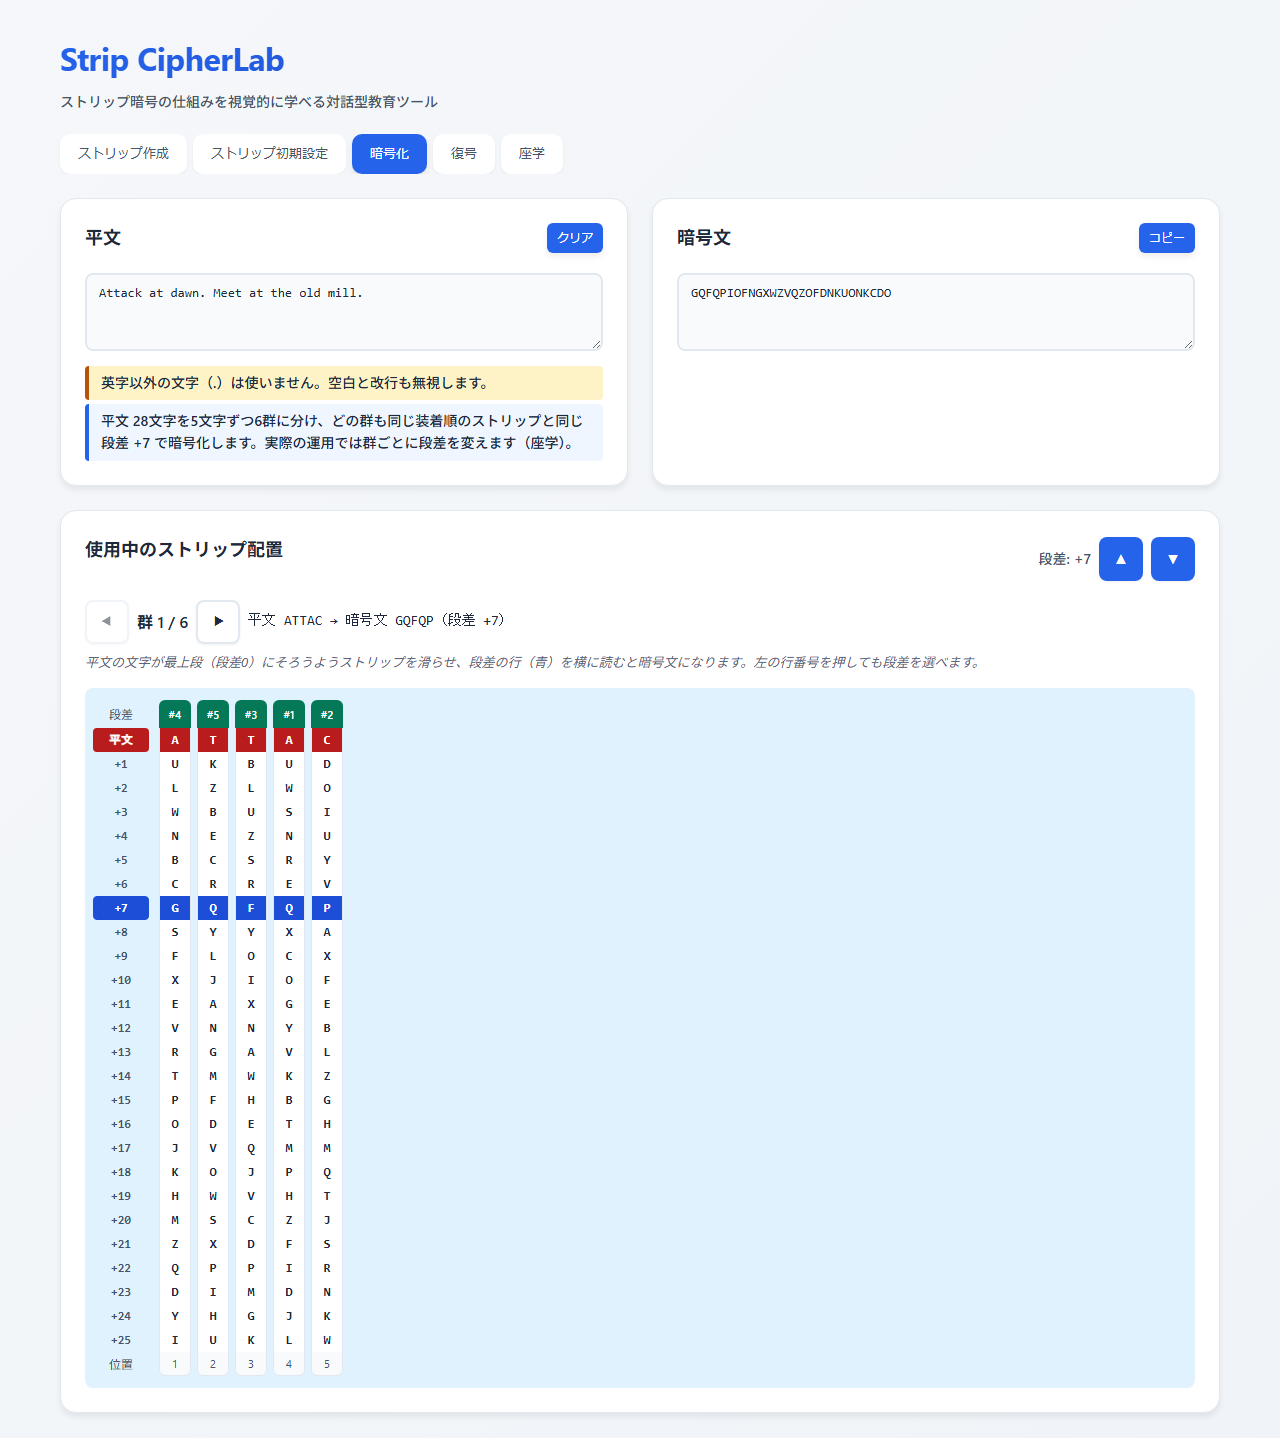
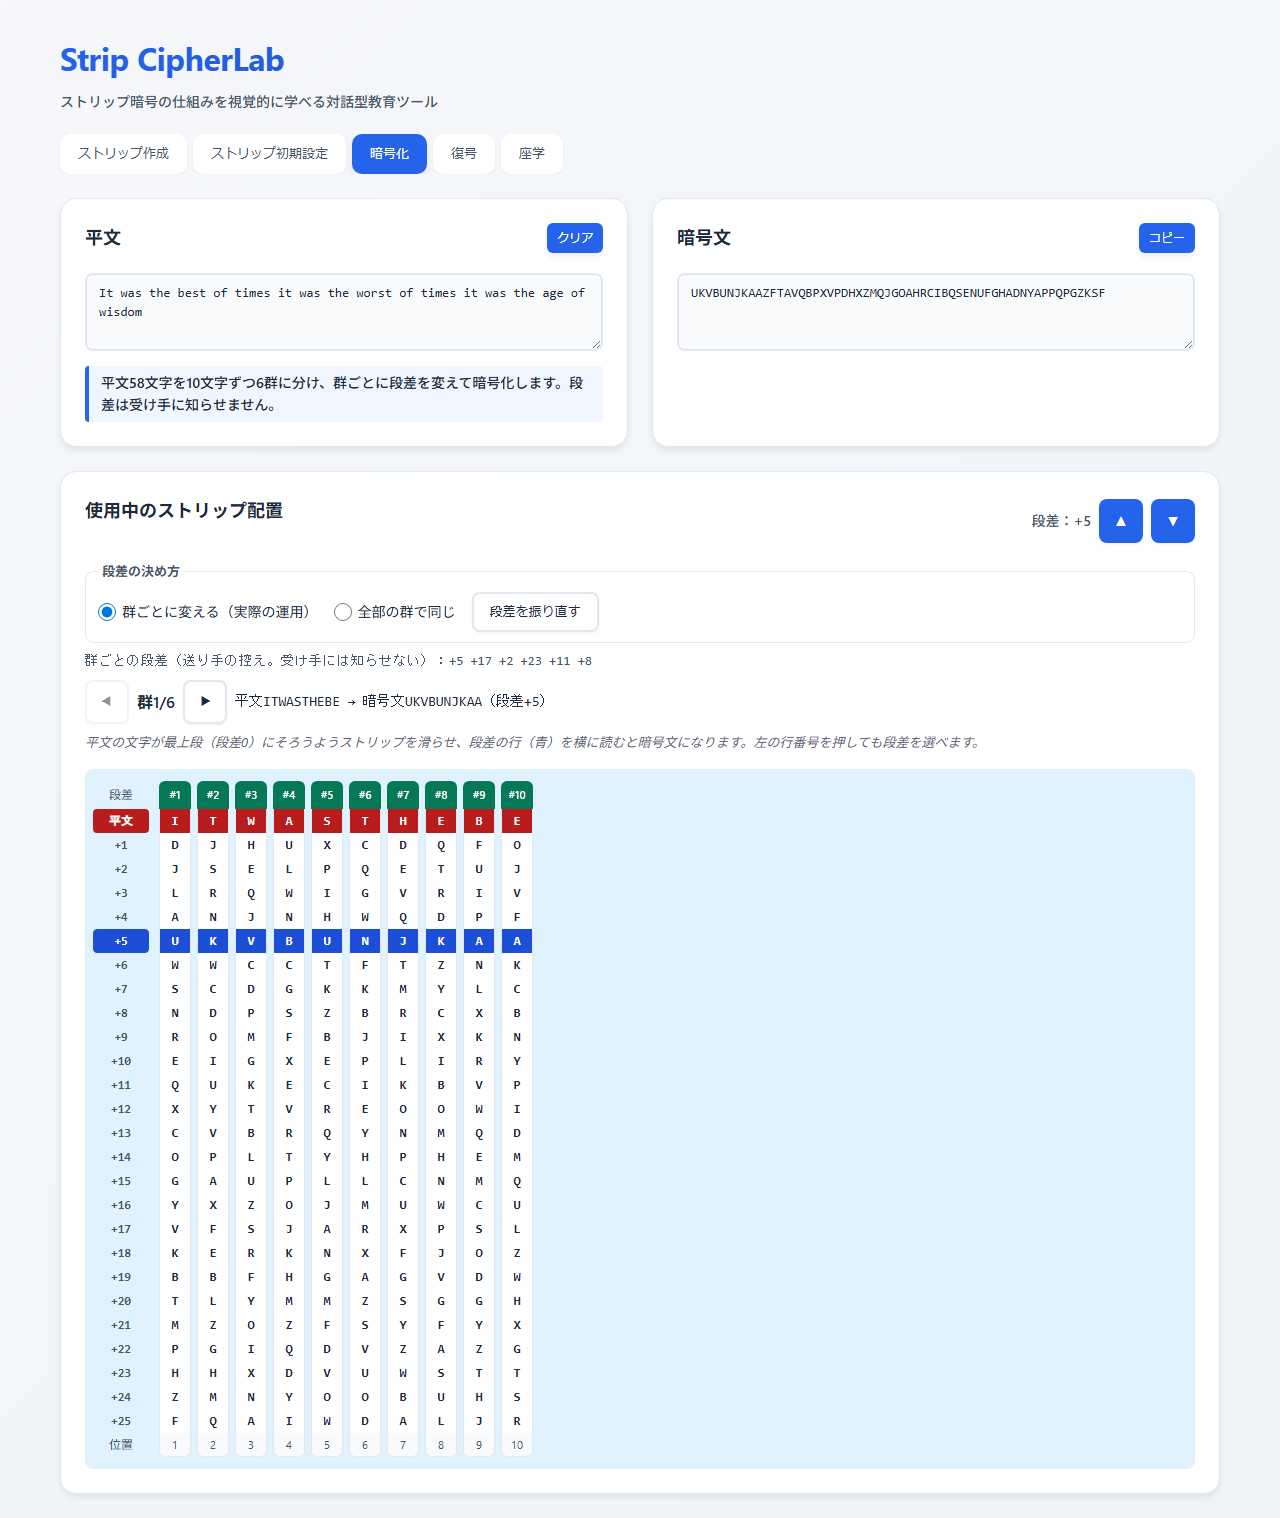
第2弾 段階4: README・座学・CLAUDE.md・スクリーンショット
- README に群ごとの段差と自動推定の計算例、点数の作り方、評価の表（tools/evaluate.mjs と照合）
- 5文字の群で外れの行が1位になる例と、全文の点数なら当たることを追加
- 座学に候補の点数と段差の決め方を追加
- README と画面の文の、日本語と英字・数字の間の空白を外す（テストで検査）
- スクリーンショットを第2弾の画面に撮り直す（テスト49件）

diff --git a/index.html b/index.html
@@ -15,7 +15,7 @@
     <p class="subtitle">ストリップ暗号の仕組みを視覚的に学べる対話型教育ツール</p>
   </header>
 
-  <noscript><p class="noscript">このツールは JavaScript を使います。ブラウザーの設定で JavaScript を有効にしてください。</p></noscript>
+  <noscript><p class="noscript">このツールはJavaScriptを使います。ブラウザーの設定でJavaScriptを有効にしてください。</p></noscript>
 
   <nav class="tabs" role="tablist" aria-label="手順">
     <button type="button" class="tab-btn active" id="tab-build" data-tab="build" role="tab" aria-selected="true" aria-controls="build">ストリップ作成</button>
@@ -41,11 +41,11 @@
             </div>
             <div class="row">
               <label for="passphrase">合言葉:</label>
-              <input id="passphrase" type="text" placeholder="例: STRIP" autocomplete="off" spellcheck="false" />
+              <input id="passphrase" type="text" placeholder="例：STRIP" autocomplete="off" spellcheck="false" />
               <button id="btnGenPassphrase" type="button">合言葉から生成</button>
             </div>
             <div class="note">
-              ・ランダム生成は、A〜Z を偏りのない乱数（crypto.getRandomValues）で並べ替えた乱字列を、本数分作ります。<br />
+              ・ランダム生成は、A〜Zを偏りのない乱数（crypto.getRandomValues）で並べ替えた乱字列を、本数分作ります。<br />
               ・合言葉から生成は、同じ合言葉と本数から、いつも同じストリップの一式を作ります（送り手と受け手がストリップをそろえる練習用）。決まった手順の擬似乱数なので、合言葉を推測されるとストリップも再現されます。大文字と小文字は区別します。
             </div>
             <div id="genMsg" class="msg" role="status" aria-live="polite"></div>
@@ -84,16 +84,16 @@
           </div>
           <div class="row">
             <label for="frameKey">鍵語（文字数＝使用本数）:</label>
-            <input id="frameKey" type="text" placeholder="例: The strip cipher" autocomplete="off" spellcheck="false" />
+            <input id="frameKey" type="text" placeholder="例：The strip cipher" autocomplete="off" spellcheck="false" />
             <button id="btnFrameByKey" type="button">鍵語から決める</button>
           </div>
           <div class="row">
             <label for="manualOrder">ストリップ番号を並べる（カンマ区切り）:</label>
-            <input id="manualOrder" type="text" placeholder="例: 3, 1, 2" autocomplete="off" />
+            <input id="manualOrder" type="text" placeholder="例：3, 1, 2" autocomplete="off" />
             <button id="btnApplyOrder" type="button">この順にする</button>
           </div>
           <div id="frameMsg" class="msg" role="status" aria-live="polite"></div>
-          <p class="mono small">現在の装着順（左から、ストリップ番号）: <span id="frameOrderView"></span></p>
+          <p class="mono small">現在の装着順（左から、ストリップ番号）：<span id="frameOrderView"></span></p>
         </div>
 
         <!-- メインのストリップ配置エリア -->
@@ -132,7 +132,7 @@
         <div class="enc-strips-header">
           <h2>使用中のストリップ配置</h2>
           <div class="cipher-line-controls-header">
-            <span class="cipher-offset-label">段差: <output id="cipherOffsetValue">+1</output></span>
+            <span class="cipher-offset-label">段差：<output id="cipherOffsetValue">+1</output></span>
             <button id="cipherUpBtn" type="button" class="cipher-control-btn" aria-label="暗号文の行を1段上へ（段差を1減らす）">▲</button>
             <button id="cipherDownBtn" type="button" class="cipher-control-btn" aria-label="暗号文の行を1段下へ（段差を1増やす）">▼</button>
           </div>
@@ -183,7 +183,7 @@
         <div class="enc-strips-header">
           <h2>使用中のストリップ配置（復号）</h2>
           <div class="cipher-line-controls-header">
-            <span class="cipher-offset-label">段差: <output id="decCipherOffsetValue">-1</output></span>
+            <span class="cipher-offset-label">段差：<output id="decCipherOffsetValue">-1</output></span>
             <button id="decCipherUpBtn" type="button" class="cipher-control-btn" aria-label="平文候補の行を1段上へ（段差を1増やす）">▲</button>
             <button id="decCipherDownBtn" type="button" class="cipher-control-btn" aria-label="平文候補の行を1段下へ（段差を1減らす）">▼</button>
           </div>
@@ -216,7 +216,7 @@
             </div>
           </section>
           <div class="dec-window">
-            <p class="hint">暗号文の文字が最下段にそろうようストリップを滑らせると、その上の25行が平文の候補（段差 -1〜-25）です。行を横に読み、読める行を探してください。</p>
+            <p class="hint">暗号文の文字が最下段にそろうようストリップを滑らせると、その上の25行が平文の候補（段差-1〜-25）です。行を横に読み、読める行を探してください。</p>
             <div id="decStripsDisplay" class="frame-window-wrap"></div>
           </div>
         </div>
@@ -230,27 +230,28 @@
         <p>ストリップ暗号は、ランダム順のアルファベットを印字した帯（ストリップ）を多数並べ、平文行とは別の行を暗号文として読み出す換字式暗号です。</p>
         <h3>手順</h3>
         <ol>
-          <li>平文を使用本数 r 文字ずつの群に分ける。</li>
+          <li>平文を使用本数r文字ずつの群に分ける。</li>
           <li>群の文字が1行（段差0）にそろうよう、装着順のストリップを上下に滑らせる。</li>
           <li>ほかの25行から1行を選んで暗号文にする（段差）。受け手には段差を知らせない。</li>
           <li>受け手は暗号文を1行にそろえ、ほかの25行を横に読んで、読める行を平文として採用する。</li>
         </ol>
         <h3>重要ポイント</h3>
         <ul>
-          <li>段差は群ごとに変える。全部の群で同じ段差を使うと、周期 r の多表式換字に退化し、周期ごとの一致指数（IC）で r が見えてくる。このツールの暗号化は、全部の群に同じ段差を使う。</li>
+          <li>段差は群ごとに変える。全部の群で同じ段差を使うと、周期rの多表式換字に退化し、周期ごとの一致指数（IC）でrが見えてくる。暗号化タブの「段差の決め方」で、群ごとに変えるか、全部の群で同じにするかを選べる。</li>
+          <li>復号では、群ごとに25の候補の行を英語らしさの点数で並べられる。群が短いと、偶然に英語らしく見える外れの行が1位になることがある。</li>
           <li>段差は1〜25なので、平文の文字が同じ文字に暗号化されることはない。解読の手がかりにもなる性質である。</li>
           <li>ストリップは輪になっていないので、26文字を2回続けて印字し、端で止まらずにそろえられるようにする。</li>
-          <li>滑らせると同じ並びになる2本は、同じストリップとして働く（区別できる並びは 25! 通り）。</li>
+          <li>滑らせると同じ並びになる2本は、同じストリップとして働く（区別できる並びは25!通り）。</li>
           <li>鍵語による装着順（アルファベット順の割当、同じ文字は左から若い番号）は一例で、ほかの割当もある。</li>
         </ul>
         <h3>歴史</h3>
         <ul>
           <li>ジェファソンのホイール暗号とバゼリーの円筒を帯の形に伸ばしたもので、1914年にパーカー・ヒットが提案した。</li>
-          <li>米陸軍の M-138-A は100本から30本を使い、国務省も1930年代末から最も重要な通信に使った。</li>
-          <li>ドイツ外務省の解読部門は、国務省のストリップ暗号 O-2 の50本と40通りの日鍵を復元した（TICOM I-89）。</li>
+          <li>米陸軍のM-138-Aは100本から30本を使い、国務省も1930年代末から最も重要な通信に使った。</li>
+          <li>ドイツ外務省の解読部門は、国務省のストリップ暗号O-2の50本と40通りの日鍵を復元した（TICOM I-89）。</li>
           <li>日本はウェーク島とキスカで米海軍のストリップを手に入れ解読を試みたが、特務班は最後に事実上解けないものとみなした。</li>
         </ul>
-        <p class="hint">出典は README の「歴史メモ」と「参考文献」にある（Kahn『The Codebreakers』、TICOM I-89）。</p>
+        <p class="hint">出典はREADMEの「歴史メモ」と「参考文献」にある（Kahn『The Codebreakers』、TICOM I-89）。</p>
       </article>
     </section>
 

diff --git a/CLAUDE.md b/CLAUDE.md
@@ -12,6 +12,7 @@ Strip CipherLab is an educational web tool for learning the strip cipher (M-138-
 
 - `index.html` - Single page with five tabs (ストリップ作成, ストリップ初期設定, 暗号化, 復号, 座学). Meta CSP is `'self'` only: no inline scripts, inline event handlers, or `style` attributes.
 - `js/strip-core.js` - Pure logic (no DOM), exposed as `globalThis.StripCore`. Normalization, strip checks, keyword ranking, encrypt/decrypt, groups, the 26-row window, random strips (`crypto.getRandomValues`, rejection sampling) and passphrase strips (FNV-1a 32 + mulberry32 + Fisher–Yates).
+- `js/english-data.js` - Generated table of English letter-pair log-likelihoods (`globalThis.StripEnglish`). Built by `tools/build-english.mjs` from `tools/corpus/train-pg1342.txt`; do not edit by hand.
 - `js/messages.js` - UI strings used by `script.js` (`StripMessages.t(lang, key, params)`). Only `ja` for now; keep JS string literals free of Japanese (tested).
 - `script.js` - DOM handling only: state, rendering, events.
 - `style.css` - Styles. Colors are CSS variables in `:root` (contrast tested).
@@ -23,8 +24,12 @@ const state = {
   strips: [],          // 26-letter alphabets
   stripsVersion: 0,    // bumped when strips are replaced (window rebuild key)
   frameOrder: [],      // strip indices (0-based) left to right; shown 1-based in the UI
-  cipherRowGapEnc: 1,  // 1..25
-  cipherRowGapDec: 1,  // 1..25
+  cipherRowGapEnc: 1,  // 1..25 (used when encGapMode is "fixed")
+  encGapMode: "group", // "group" (gap per group, random by default) or "fixed"
+  encGaps: [],         // gap per group; missing ones are filled with crypto random gaps
+  cipherRowGapDec: 1,  // 1..25 (used when decGapMode is "fixed")
+  decGapMode: "group", // "group" (pick per group) or "fixed"
+  decGaps: [],         // chosen gap per group; missing ones are 1
   encGroup: 0,         // group shown in the encryption window
   decGroup: 0,         // group shown in the decryption window
 };
@@ -37,7 +42,8 @@ const state = {
 ### Cipher model
 
 - Encrypt: group the letters by r (= `frameOrder.length`); letter i uses strip `frameOrder[i % r]`; output the letter `gap` rows below (`(pos + gap) % 26`). Decrypt subtracts.
-- `gaps` in the core may be a number (same for all groups) or an array per group. The UI currently uses one gap for all groups.
+- `gaps` in the core may be a number (same for all groups) or an array per group. The UI uses an array in "group" mode and a number in "fixed" mode.
+- Candidates: `rankCandidates(group, strips, order, table)` returns the 25 rows (gap 1..25) sorted by `englishScore` (mean log P(next | prev)); `rankFixedCandidates` scores whole-text decryptions; `bestGaps` picks rank 1 per group. Short groups (< 8 letters) often rank a wrong row first; the UI shows a note.
 - Window: `StripCore.windowColumns(groupLetters, strips, order, mode)` gives each column's `offset` into the doubled (52-letter) strip. `enc` puts the group on the top row (row k = gap +k); `dec` puts it on the bottom row (row 25-k = gap -k). The UI slides the tape with the CSS variable `--offset` and never measures layout.
 
 ## Development Commands
@@ -46,6 +52,10 @@ const state = {
 # Run tests (Node.js 22+, no dependencies)
 npm test
 
+# Rebuild / check the English table, and print the accuracy table shown in the README
+node tools/build-english.mjs [--check]
+node tools/evaluate.mjs
+
 # Open directly in a browser, or serve locally
 python -m http.server 8000
 ```
@@ -53,7 +63,8 @@ python -m http.server 8000
 ## Testing
 
 - `test/core.test.js` - known answers (checked against an independent Python reference), round trips, boundaries
-- `test/readme.test.js` - README examples recomputed with the core, YAML metadata structure, directory tree, images, wording
+- `test/english.test.js` - English table rebuilt from the corpus, scores (checked against Python), candidates, random gaps, evaluation
+- `test/readme.test.js` - README examples and the accuracy tables recomputed with the core / `tools/evaluate.mjs`, YAML metadata structure, directory tree, images, wording
 - `test/html.test.js` - CSP, ARIA tabs, ids used by `script.js`
 - `test/messages.test.js` - dictionary keys used by `script.js`, no Japanese literals in `script.js`
 - `test/contrast.test.js` - text/background pairs at 4.5:1 or more

diff --git a/AGENTS.md b/AGENTS.md
@@ -3,10 +3,12 @@
 ## Project Structure & Module Organization
 - `index.html` — Single-page UI and tab layout (meta CSP: `'self'` only).
 - `js/strip-core.js` — Pure cipher logic (no DOM): strips, keyword order, encrypt/decrypt, the 26-row window, random and passphrase strips.
+- `js/english-data.js` — Generated English letter-pair table (do not edit; run `node tools/build-english.mjs`).
 - `js/messages.js` — UI strings used by `script.js`.
 - `script.js` — UI wiring (state, rendering, events).
 - `style.css` — Styles and the strip window.
-- `test/` — `node --test` suites (core, README, HTML, messages, contrast, format).
+- `test/` — `node --test` suites (core, English scoring, README, HTML, messages, contrast, format).
+- `tools/` — Development scripts and Project Gutenberg excerpts (`build-english.mjs`, `evaluate.mjs`, `corpus/`). Not loaded by the page.
 - `assets/` — Screenshots used by the README.
 - `.nojekyll` — Enables GitHub Pages to serve files as-is.
 
@@ -25,7 +27,7 @@
 ## Testing Guidelines
 - Add or update tests with every change; do not change expected values to make tests pass.
 - README examples are recomputed by `test/readme.test.js`; keep them in sync with the core.
-- Manual checks in the browser: generate strips (random / passphrase / manual), set the order (first N / keyword / numbers / drag / ◀ ▶), encrypt and decrypt while changing the gap and the group.
+- Manual checks in the browser: generate strips (random / passphrase / manual), set the order (first N / keyword / numbers / drag / ◀ ▶), encrypt with gaps per group or one gap, decrypt by picking candidates or the auto estimate, in both gap modes.
 
 ## Commit & Pull Request Guidelines
 - Commit messages: concise summary; add short scope if useful (e.g., `enc`, `ui`, `style`).
